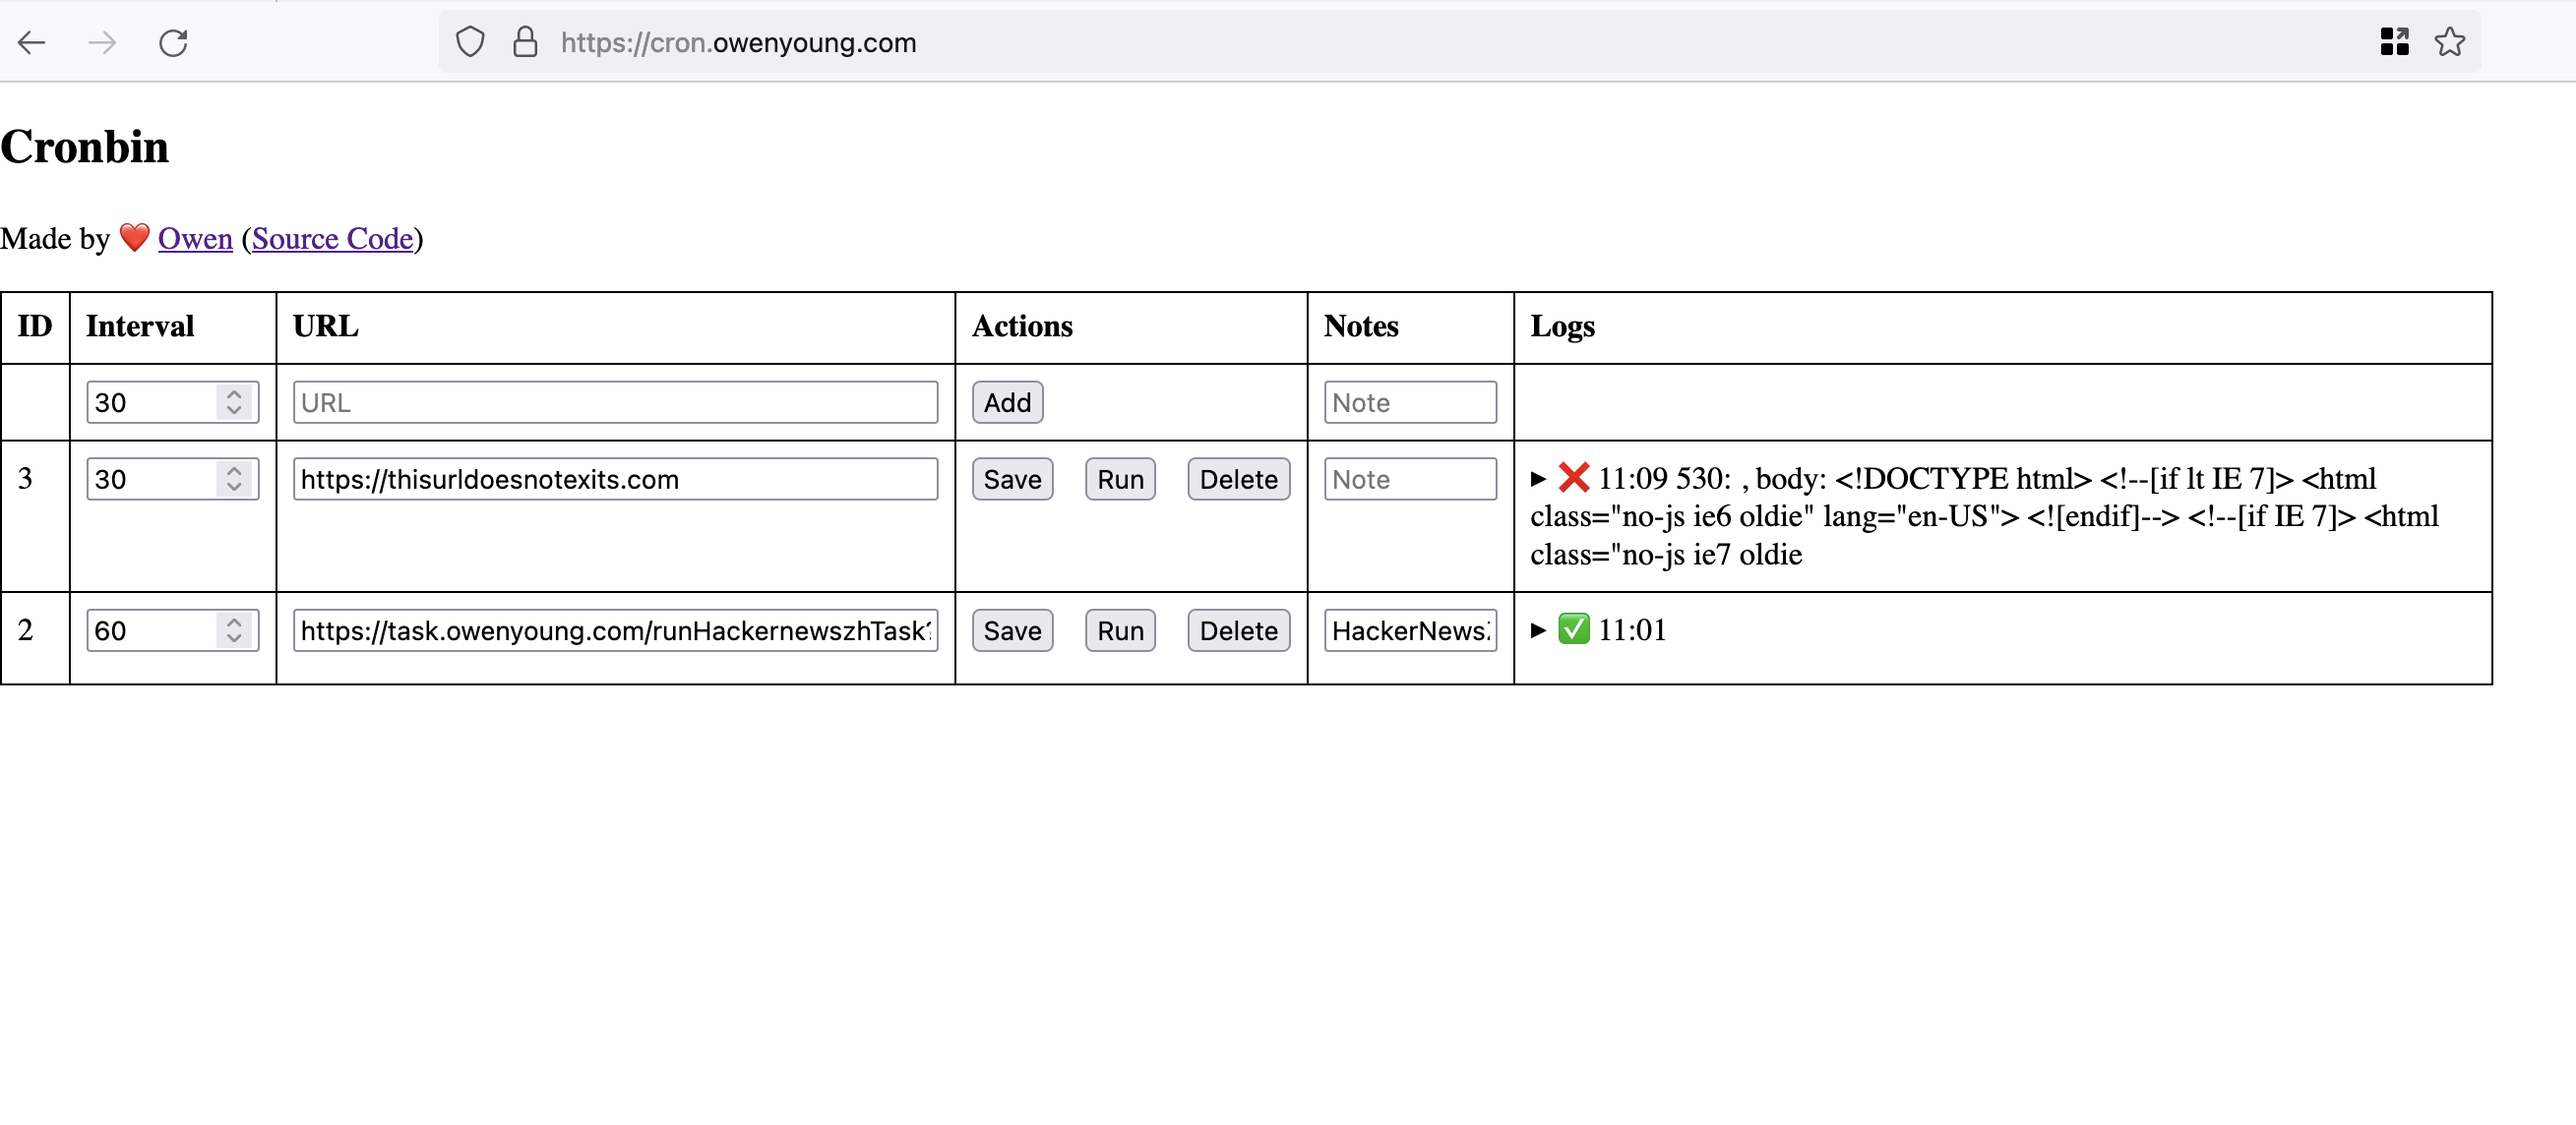
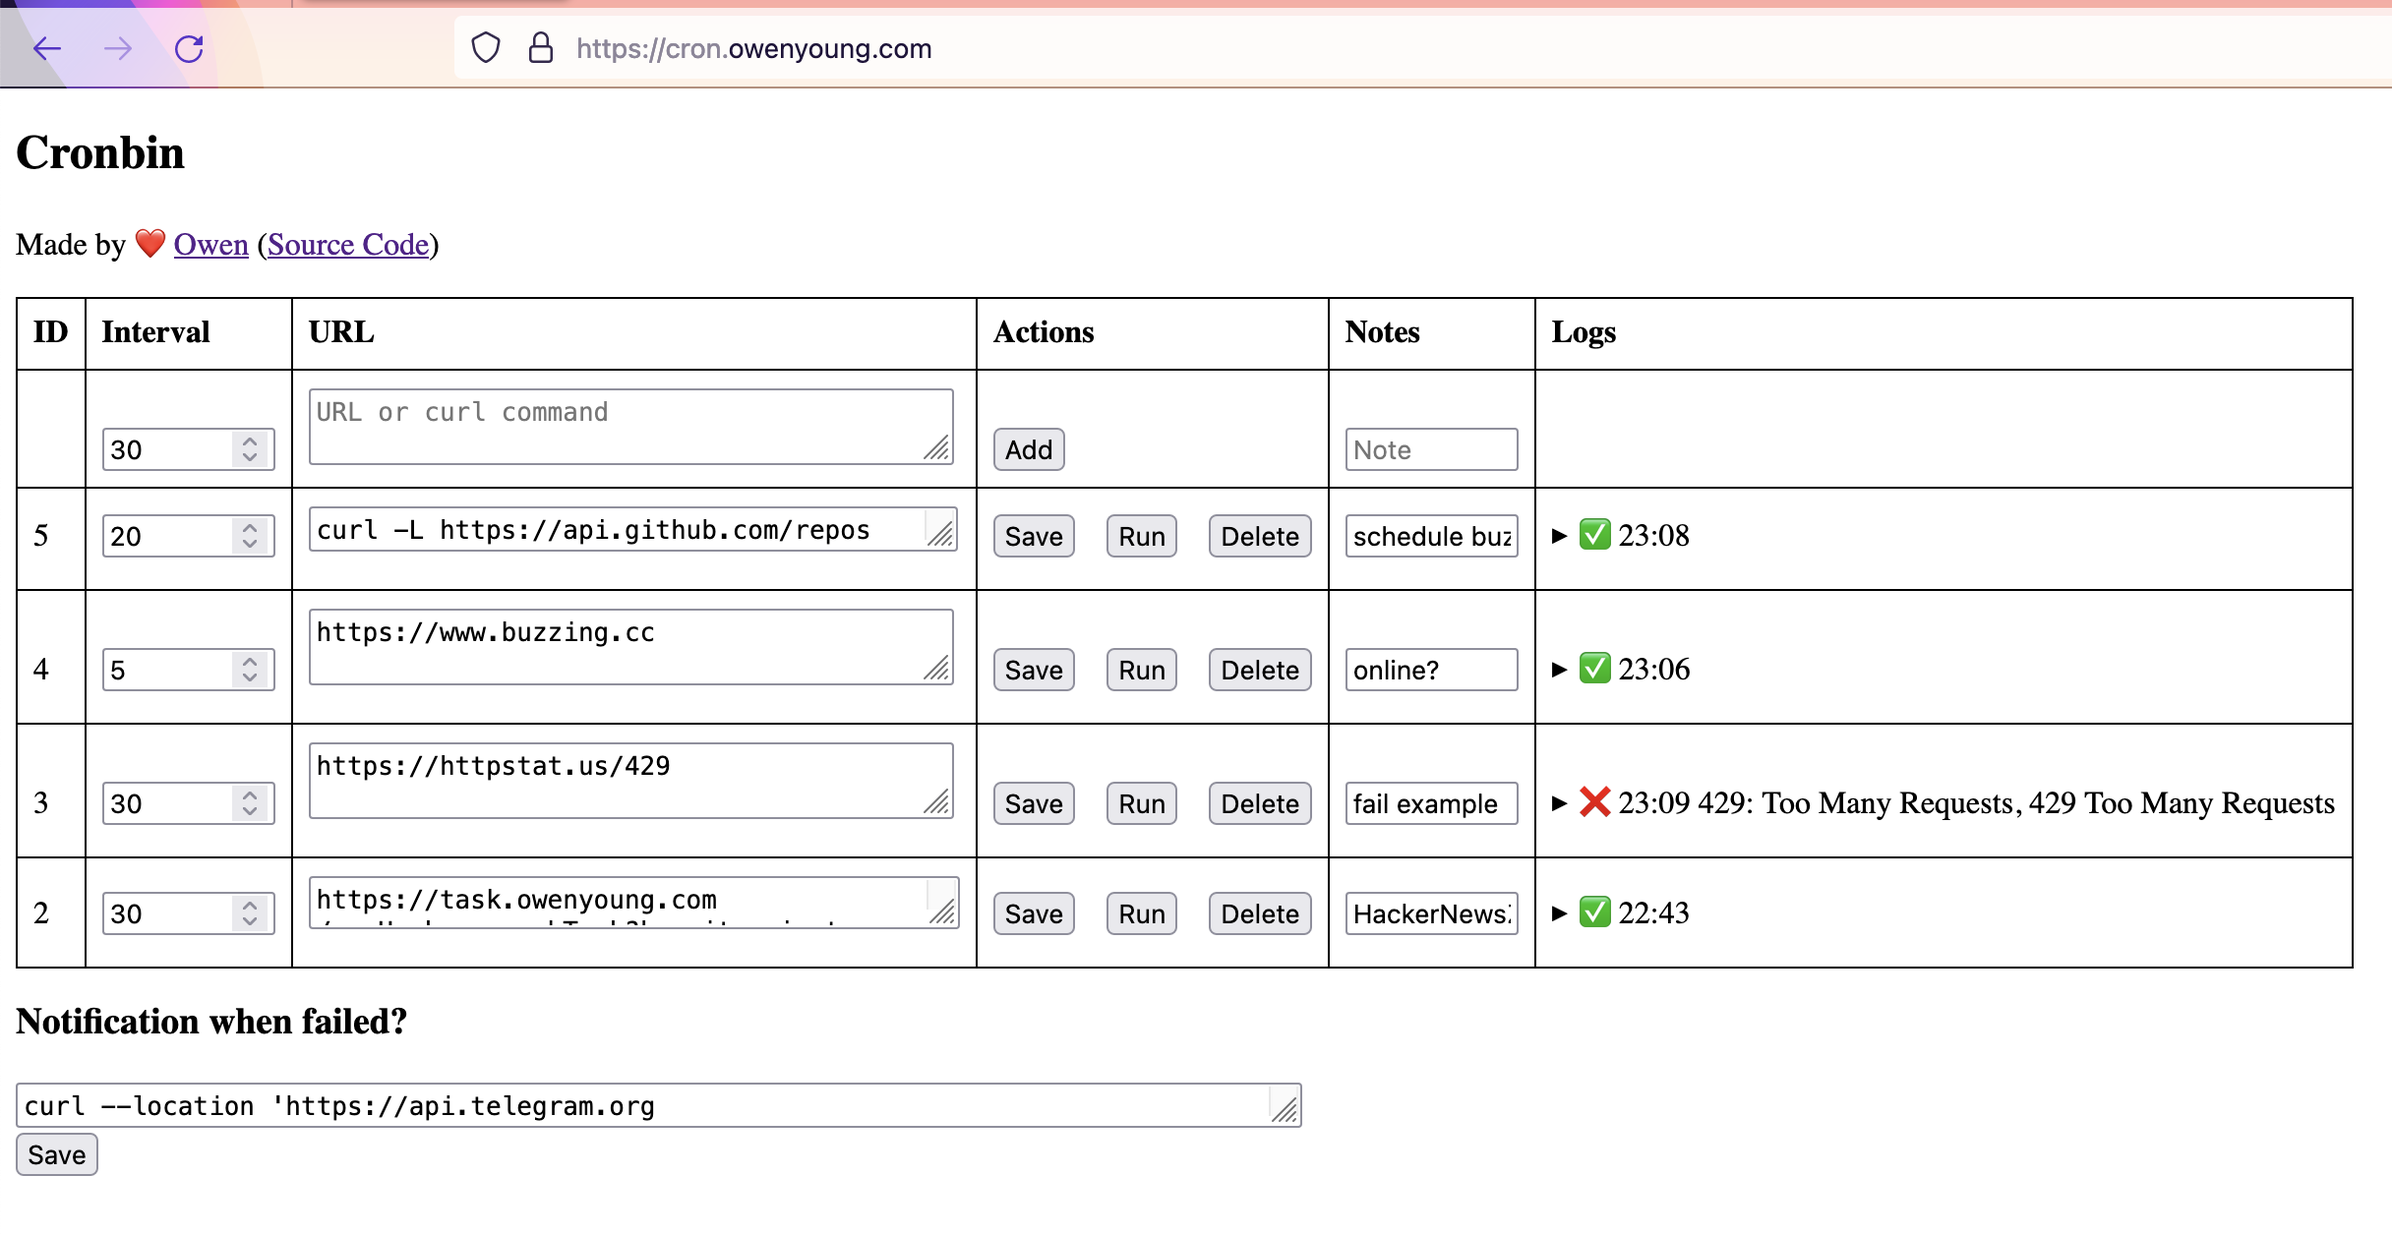
update png

diff --git a/scripts/cronbin/main.js b/scripts/cronbin/main.js
@@ -1,4 +1,4 @@
-// Modify this
+// Modify thisurlToFetchOptions
 const APIKEY = "abc";
 
 export default {
@@ -964,6 +964,7 @@ async function handleRequest(request, env) {
         interval,
         url,
         note,
+        fetch_options: urlToFetchOptions(url),
       };
       await setData(env, data);
       return ["/", "redirect"];
@@ -1047,6 +1048,7 @@ async function handleRequest(request, env) {
           interval,
           url,
           note,
+          fetch_options: urlToFetchOptions(url),
         };
         await setData(env, data);
       }
@@ -1127,6 +1129,7 @@ async function handleRequest(request, env) {
           interval,
           url,
           note,
+          fetch_options: urlToFetchOptions(url),
         };
         await setData(env, data);
         return ["/", "redirect"];
@@ -1169,16 +1172,8 @@ async function handleRequest(request, env) {
   } else if (pathname === "/notification") {
     const data = await getData(env);
     const formData = await request.formData();
-    const notification_curl = formData.get("notification_curl");
-    if (!notification_curl) {
-      throw new HTTPError(
-        "notification_curlRequired",
-        "notification_curl is required",
-        400,
-        "Bad Request"
-      );
-    }
-    if (!isValidUrl(notification_curl)) {
+    const notification_curl = formData.get("notification_curl") || "";
+    if (notification_curl && !isValidUrl(notification_curl)) {
       throw new HTTPError(
         "invalidNotification_curl",
         "notification_curl is invalid",
@@ -1187,6 +1182,12 @@ async function handleRequest(request, env) {
       );
     }
     data.notification_curl = notification_curl;
+    if (notification_curl) {
+      data.notification_fetch_options = urlToFetchOptions(notification_curl);
+    } else {
+      delete data.notification_fetch_options;
+    }
+
     await setData(env, data);
     return ["/", "redirect"];
   } else if (pathname === "/api/data") {
@@ -1230,49 +1231,23 @@ export async function checkAndRunTasks(env) {
 }
 
 export async function runTasks(taksIds, data, env) {
-  const urls = [];
+  const fetchOptionsArr = [];
   for (const taskId of taksIds) {
     const task = data.tasks[taskId];
     if (!task) {
       continue;
     }
-    const { url } = task;
-    urls.push(url);
+    const { fetch_options } = task;
+    if (fetch_options) {
+      fetchOptionsArr.push(fetch_options);
+    }
   }
-  const notification_curl = data.notification_curl;
+  const notification_fetch_options = data.notification_fetch_options;
 
   // promise settled
   const results = await Promise.allSettled(
-    urls.map((url) => {
-      let finalUrl = "";
-      const finalOptions = {};
-      // check url is valid url or curl
-      try {
-        new URL(url);
-        finalUrl = url;
-      } catch (_e) {
-        // not valid url, try to parse it as curl
-        const curlOptions = parseCurl(url);
-        finalUrl = curlOptions.url;
-        if (curlOptions.method) {
-          finalOptions.method = curlOptions.method;
-        }
-
-        if (curlOptions.headers) {
-          finalOptions.headers = curlOptions.headers;
-        }
-        if (curlOptions.body) {
-          finalOptions.body = curlOptions.body;
-        }
-      }
-      if (!finalOptions.headers) {
-        finalOptions.headers = {};
-      }
-      if (!finalOptions.headers["User-Agent"]) {
-        finalOptions.headers["User-Agent"] =
-          "Mozilla/5.0 (Macintosh; Intel Mac OS X 10.15; rv:109.0) Gecko/20100101 Firefox/110.0";
-      }
-      return fetch(finalUrl, finalOptions).then((res) => {
+    fetchOptionsArr.map((options) => {
+      return fetch(options.url, options).then((res) => {
         return res.text().then((body) => {
           if (res.ok) {
             return body;
@@ -1317,12 +1292,8 @@ export async function runTasks(taksIds, data, env) {
 
   // if data is changed, update it
   await setData(env, data);
-  if (globalError && notification_curl) {
-    let notificationFetchOptions = null;
-    if (notification_curl) {
-      notificationFetchOptions = parseCurl(notification_curl);
-    }
-    let { url, method, headers, body } = notificationFetchOptions;
+  if (globalError && notification_fetch_options) {
+    let { url, method, headers, body } = notification_fetch_options;
     const finalHeaders = {
       "User-Agent":
         "Mozilla/5.0 (Macintosh; Intel Mac OS X 10.15; rv:109.0) Gecko/20100101 Firefox/110.0",
@@ -1354,6 +1325,39 @@ export async function runTasks(taksIds, data, env) {
       console.warn("notification error", notificationError);
     }
   }
+}
+
+export function urlToFetchOptions(url) {
+  let finalUrl = "";
+  const finalOptions = {};
+  // check url is valid url or curl
+  try {
+    new URL(url);
+    finalUrl = url;
+  } catch (_e) {
+    // not valid url, try to parse it as curl
+    const curlOptions = parseCurl(url);
+    finalUrl = curlOptions.url;
+    if (curlOptions.method) {
+      finalOptions.method = curlOptions.method;
+    }
+
+    if (curlOptions.headers) {
+      finalOptions.headers = curlOptions.headers;
+    }
+    if (curlOptions.body) {
+      finalOptions.body = curlOptions.body;
+    }
+  }
+  if (!finalOptions.headers) {
+    finalOptions.headers = {};
+  }
+  if (!finalOptions.headers["User-Agent"]) {
+    finalOptions.headers["User-Agent"] =
+      "Mozilla/5.0 (Macintosh; Intel Mac OS X 10.15; rv:109.0) Gecko/20100101 Firefox/110.0";
+  }
+  finalOptions.url = finalUrl;
+  return finalOptions;
 }
 
 export function getCurrentTaskIds(now, data) {
